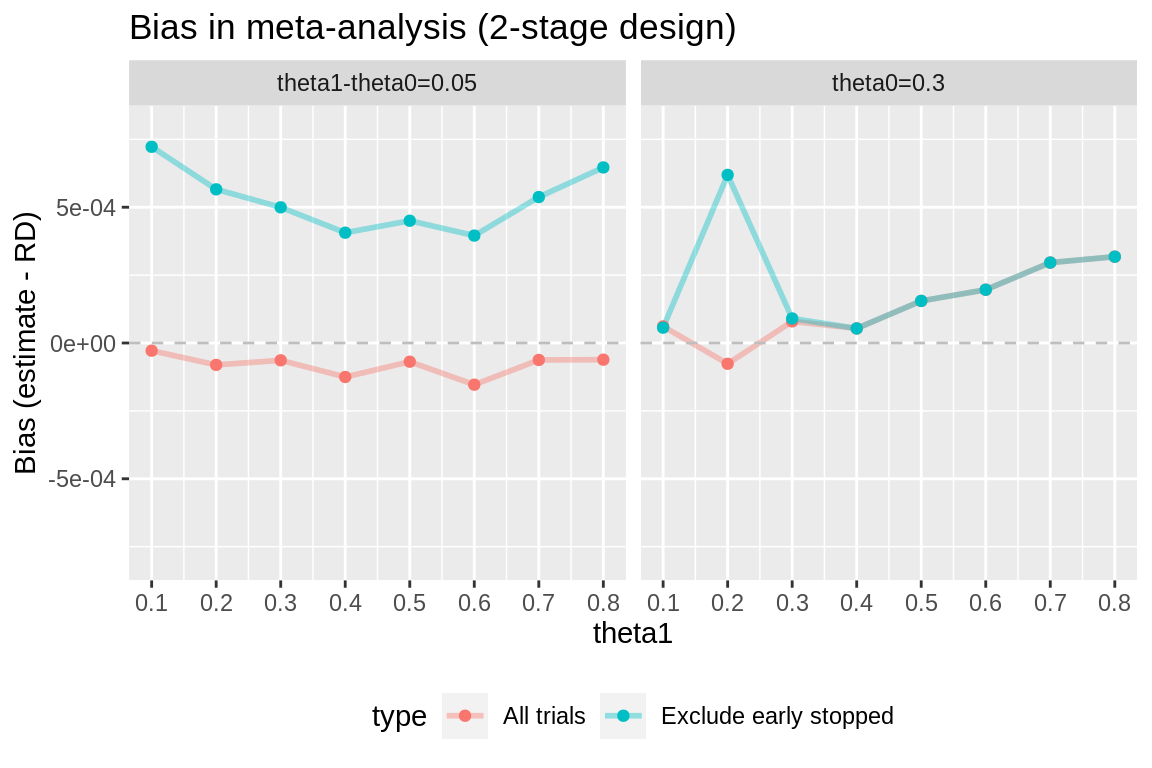
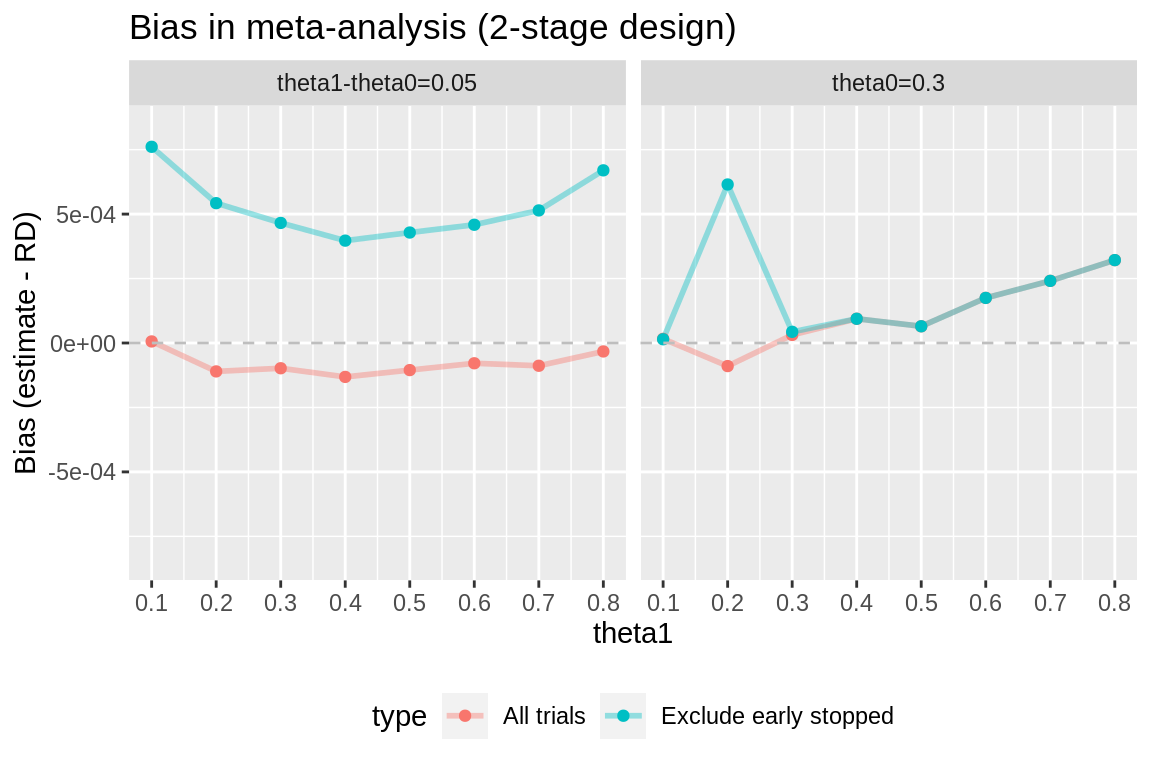
Built site for pwb: 0.0.0.9000@1882aeb

diff --git a/articles/GS.html b/articles/GS.html
@@ -91,10 +91,10 @@
                      nsims<span class="op">=</span><span class="va">nsims</span><span class="op">)</span>
   <span class="va">single.GS</span><span class="op">$</span><span class="va">ests</span><span class="op">[</span>, <span class="fl">1</span><span class="op">:</span><span class="fl">5</span><span class="op">]</span>
 <span class="co">#&gt;                          nsims    bias mean.SE emp.SE theta</span>
-<span class="co">#&gt; Stopped early            39173 -0.0451  0.0455 0.0277   0.5</span>
-<span class="co">#&gt; Complete                 60827  0.0246  0.0421 0.0300   0.5</span>
-<span class="co">#&gt; All                     100000 -0.0027  0.0434 0.0448   0.5</span>
-<span class="co">#&gt; All (precision-weghted) 100000  0.0000  0.0433     NA   0.5</span>
+<span class="co">#&gt; Stopped early            39141 -0.0452  0.0455 0.0274   0.5</span>
+<span class="co">#&gt; Complete                 60859  0.0247  0.0421 0.0300   0.5</span>
+<span class="co">#&gt; All                     100000 -0.0026  0.0434 0.0448   0.5</span>
+<span class="co">#&gt; All (precision-weghted) 100000  0.0001  0.0433     NA   0.5</span>
   <span class="fu"><a href="https://rdrr.io/r/base/Round.html" class="external-link">round</a></span><span class="op">(</span><span class="va">single.GS</span><span class="op">$</span><span class="va">mc.error</span>, <span class="fl">5</span><span class="op">)</span>
 <span class="co">#&gt; [1] 0.00014 0.00010</span></code></pre></div>
 <p>How does bias compare when the true response probability is varied? Find results for a vector of true response probabilities:</p>
